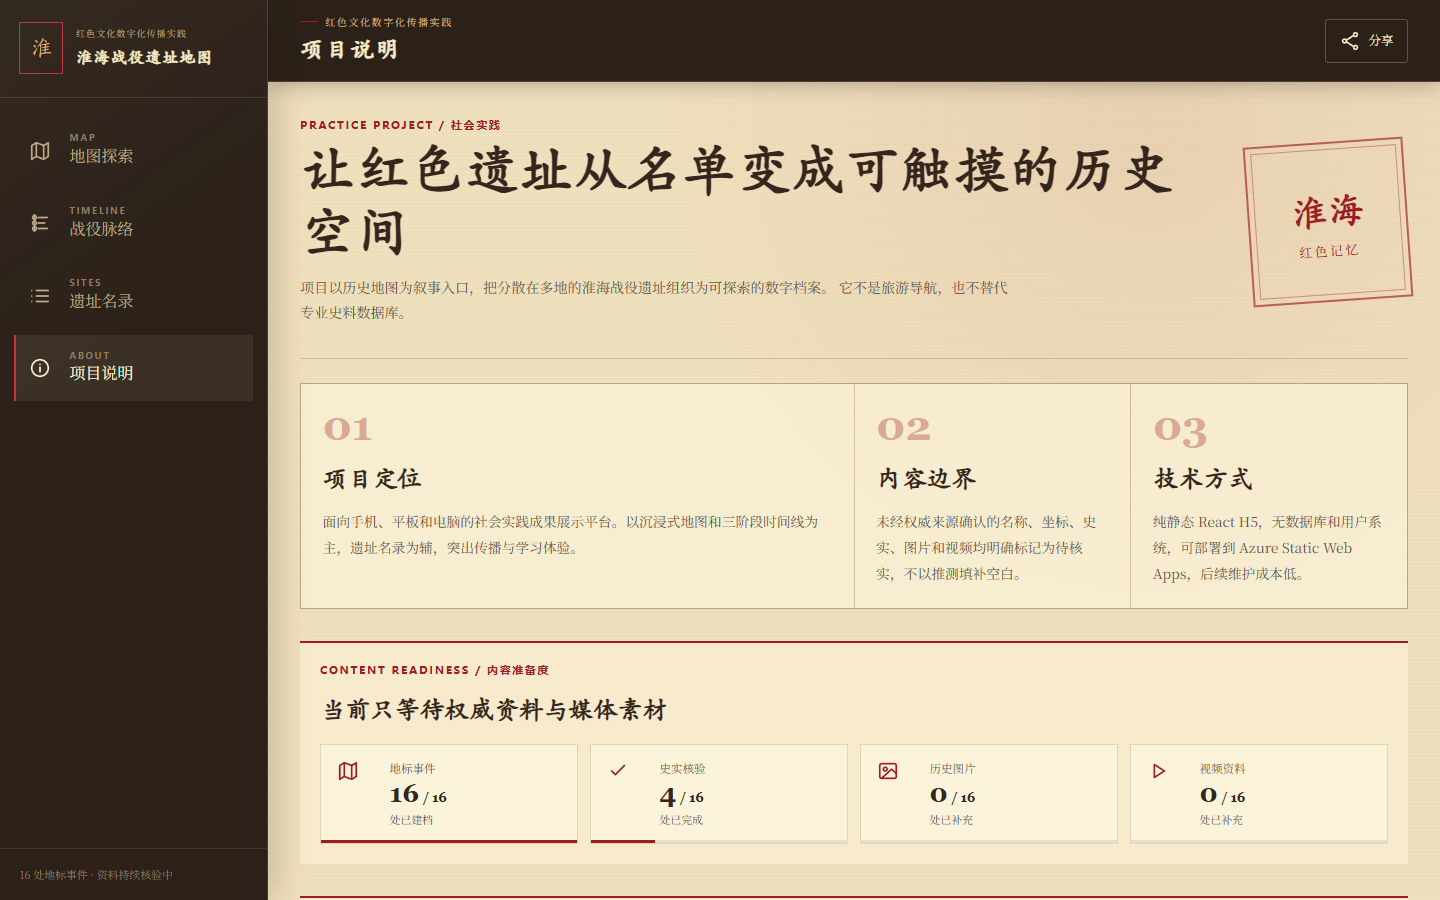
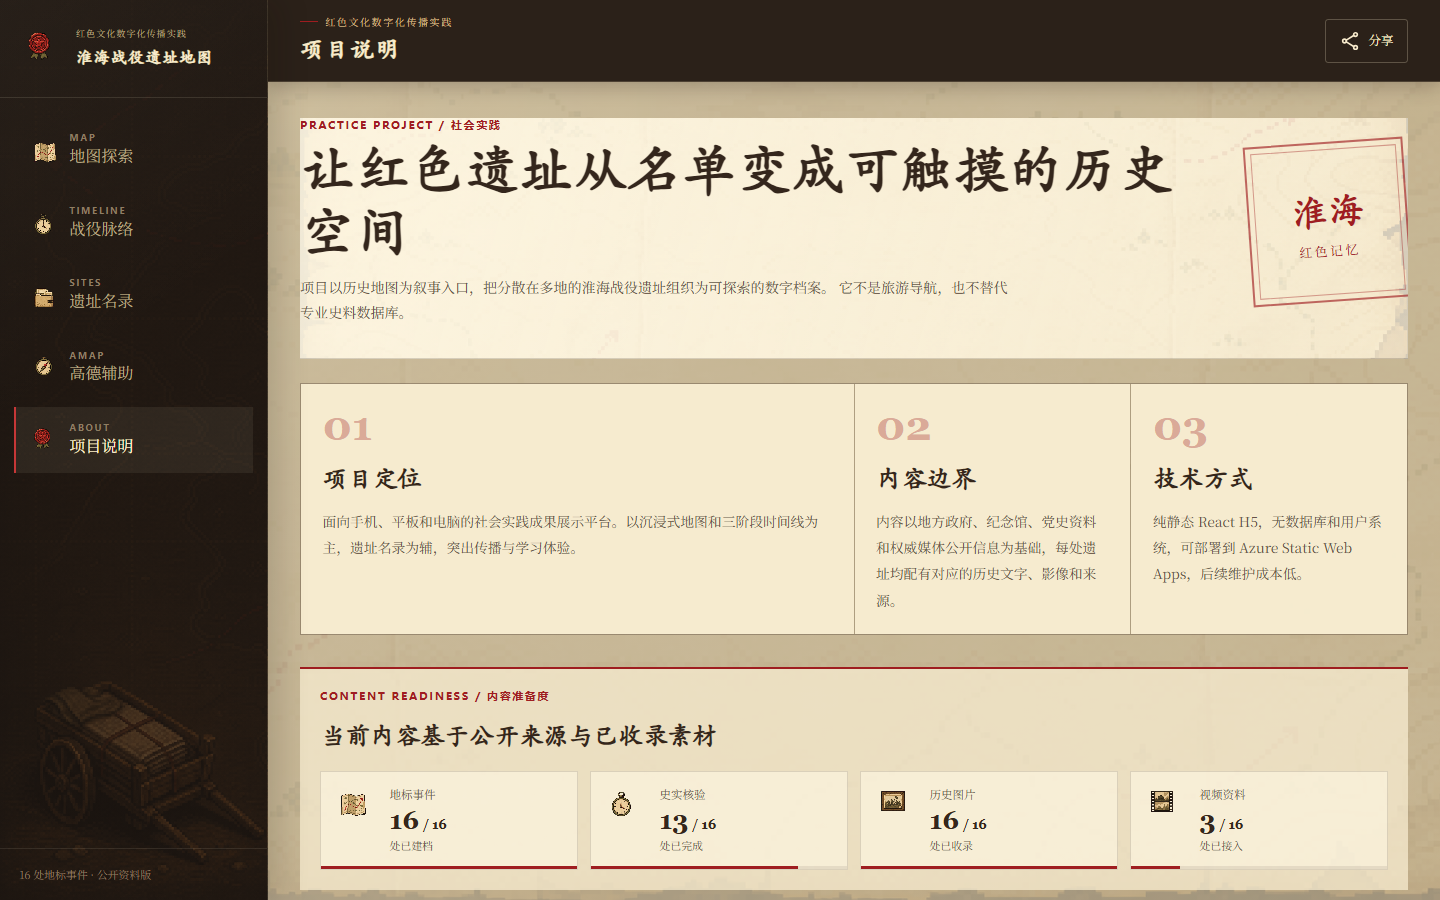
重写README并补齐页面截图

diff --git a/README.md b/README.md
@@ -4,16 +4,18 @@
   <img src="https://img.shields.io/badge/React-18-61DAFB?style=flat-square&logo=react" alt="React">
   <img src="https://img.shields.io/badge/Vite-8-646CFF?style=flat-square&logo=vite" alt="Vite">
   <img src="https://img.shields.io/badge/TypeScript-5.6-3178C6?style=flat-square&logo=typescript" alt="TypeScript">
-  <img src="https://img.shields.io/badge/Tailwind-3-06B6D4?style=flat-square&logo=tailwindcss" alt="Tailwind CSS">
-  <img src="https://img.shields.io/badge/PWA-ready-5A0FC8?style=flat-square&logo=pwa" alt="PWA">
 </p>
 
-> 淮海战役红色文化数字化传播实践成果
-> 面向手机、平板和电脑的 H5 红色遗址数字展示平台
+> 南京大学社会实践项目数字化展示成果
+> 淮海战役红色文化传播 H5 红色遗址交互地图
 
-项目以“泛黄历史地图＋红色地标事件”为核心视觉，通过地图探索、战役脉络、遗址档案和图文资料传播淮海战役红色文化。项目定位为社会实践成果展示平台，不是专业旅游导航或历史数据库。
+本项目是南京大学社会实践项目的数字化展示成果，以“泛黄历史地图＋红色地标事件”为核心视觉，通过地图探索、战役脉络、遗址档案和图文资料，讲述淮海战役相关遗址与地方红色记忆。
 
-![桌面端地图展示](docs/qa/qa-desktop-map.png)
+项目定位为社会实践成果展示平台，不是专业旅游导航、精确地图或历史数据库。
+
+<p align="center">
+  <img src="docs/qa/qa-desktop-map.png" alt="淮海战役红色遗址交互地图" width="900">
+</p>
 
 ## 当前内容
 
@@ -33,20 +35,52 @@
 - 战役脉络时间线和关键事件叙事。
 - 遗址名录、分类卡片和详情档案。
 - 高德地图 URI 检索与导航跳转。
-- 高德地图辅助核验页面，项目配置完成后用户无需填写 Key。
+- 高德地图辅助核验页面，用户无需填写 Key。
 - B 站或其他权威平台视频外链。
 - 手机底部导航、平板网格布局和桌面档案侧栏。
 - PWA Manifest、Service Worker 和离线应用外壳。
 
-## 页面结构
+## 页面展示
 
-| 页面 | 内容 |
-|---|---|
-| 地图探索 | 交互式历史地图、阶段筛选和遗址节点 |
-| 战役脉络 | 三个战役阶段、关键转折、态势卡片和纪念传承尾声 |
-| 遗址名录 | 16 处地标的搜索、筛选和档案入口 |
-| 高德辅助 | 高德地图检索、位置核验和导航跳转 |
-| 项目说明 | 项目定位、内容范围和制作说明 |
+### 地图探索
+
+交互式历史地图承载遗址节点、阶段筛选、战役路线和像素化地图图层，是项目的主要入口。
+
+<p align="center">
+  <img src="docs/qa/qa-desktop-map.png" alt="地图探索页面" width="900">
+</p>
+
+### 战役脉络
+
+项目的核心叙事页面。通过阶段时间线、关键转折、官方来源和态势地图卡片，呈现淮海战役从东线合围到决胜陈官庄的推进过程，并以纪念传承作为收束。
+
+<p align="center">
+  <img src="docs/qa/qa-desktop-timeline.png" alt="战役脉络页面" width="900">
+</p>
+
+### 遗址名录
+
+集中展示 16 处地标事件，支持按名称、地区、类型和战役阶段筛选，并可进入遗址档案或返回地图定位。
+
+<p align="center">
+  <img src="docs/qa/qa-desktop-directory.png" alt="遗址名录页面" width="900">
+</p>
+
+### 高德辅助
+
+将遗址档案与高德地图位置检索连接起来，用于地点核验、地图预览和第三方导航跳转。
+
+<p align="center">
+  <img src="docs/qa/qa-desktop-amap.png" alt="高德地图辅助页面" width="900">
+</p>
+
+### 项目说明
+
+说明项目的社会实践背景、内容边界、视觉设计和数字化传播方式。
+
+<p align="center">
+  <img src="docs/qa/qa-desktop-about.png" alt="项目说明页面" width="900">
+</p>
 
 ## 技术栈
 
@@ -59,28 +93,6 @@
 - PWA Service Worker
 
 项目为纯静态前端，不使用数据库、后台、用户系统或权限系统。
-
-## 本地运行
-
-环境要求：Node.js 20.19 或更高版本，npm 10 或更高版本。
-
-```bash
-npm install
-npm run dev
-```
-
-浏览器打开：
-
-```text
-http://localhost:5173/
-```
-
-校验内容并构建：
-
-```bash
-npm run validate:content
-npm run build
-```
 
 ## 项目结构
 
@@ -98,6 +110,7 @@ HuaiHai-h5-map/
 │   ├── data/sites.json              # 遗址数据唯一入口
 │   ├── styles/                      # 全局样式与设计令牌
 │   └── types/                       # TypeScript 类型定义
+├── docs/qa/                         # 多端页面截图
 ├── scripts/validate-content.mjs     # 内容结构校验
 ├── design-system/MASTER.md          # 视觉设计系统
 └── package.json
@@ -114,6 +127,8 @@ HuaiHai-h5-map/
 - `sources` 保存资料来源链接。
 - `stage`、`kind` 用于阶段筛选和地图图例。
 
-## 设计说明
+## 版权所有（All Rights Reserved）
 
-整体采用泛黄历史档案、像素画和红色战役标记的视觉语言。地图是用于历史文化展示的互动示意图，不用于精确导航或专业军事制图；高德地图仅承担第三方位置检索和导航辅助功能。
+本项目的源代码、界面设计、原创地图、像素资源、文案组织、项目名称及整体视觉方案，版权归项目作者及南京大学社会实践项目成果所有。除页面中明确标注的第三方资料、历史图片和外部链接外，未经书面许可，不得复制、修改、再发布、商业使用或用于其他项目。
+
+页面中的历史资料、图片和外部平台内容，其权利归原作者或原权利人所有；相关内容仅用于社会实践成果展示与红色文化传播。
